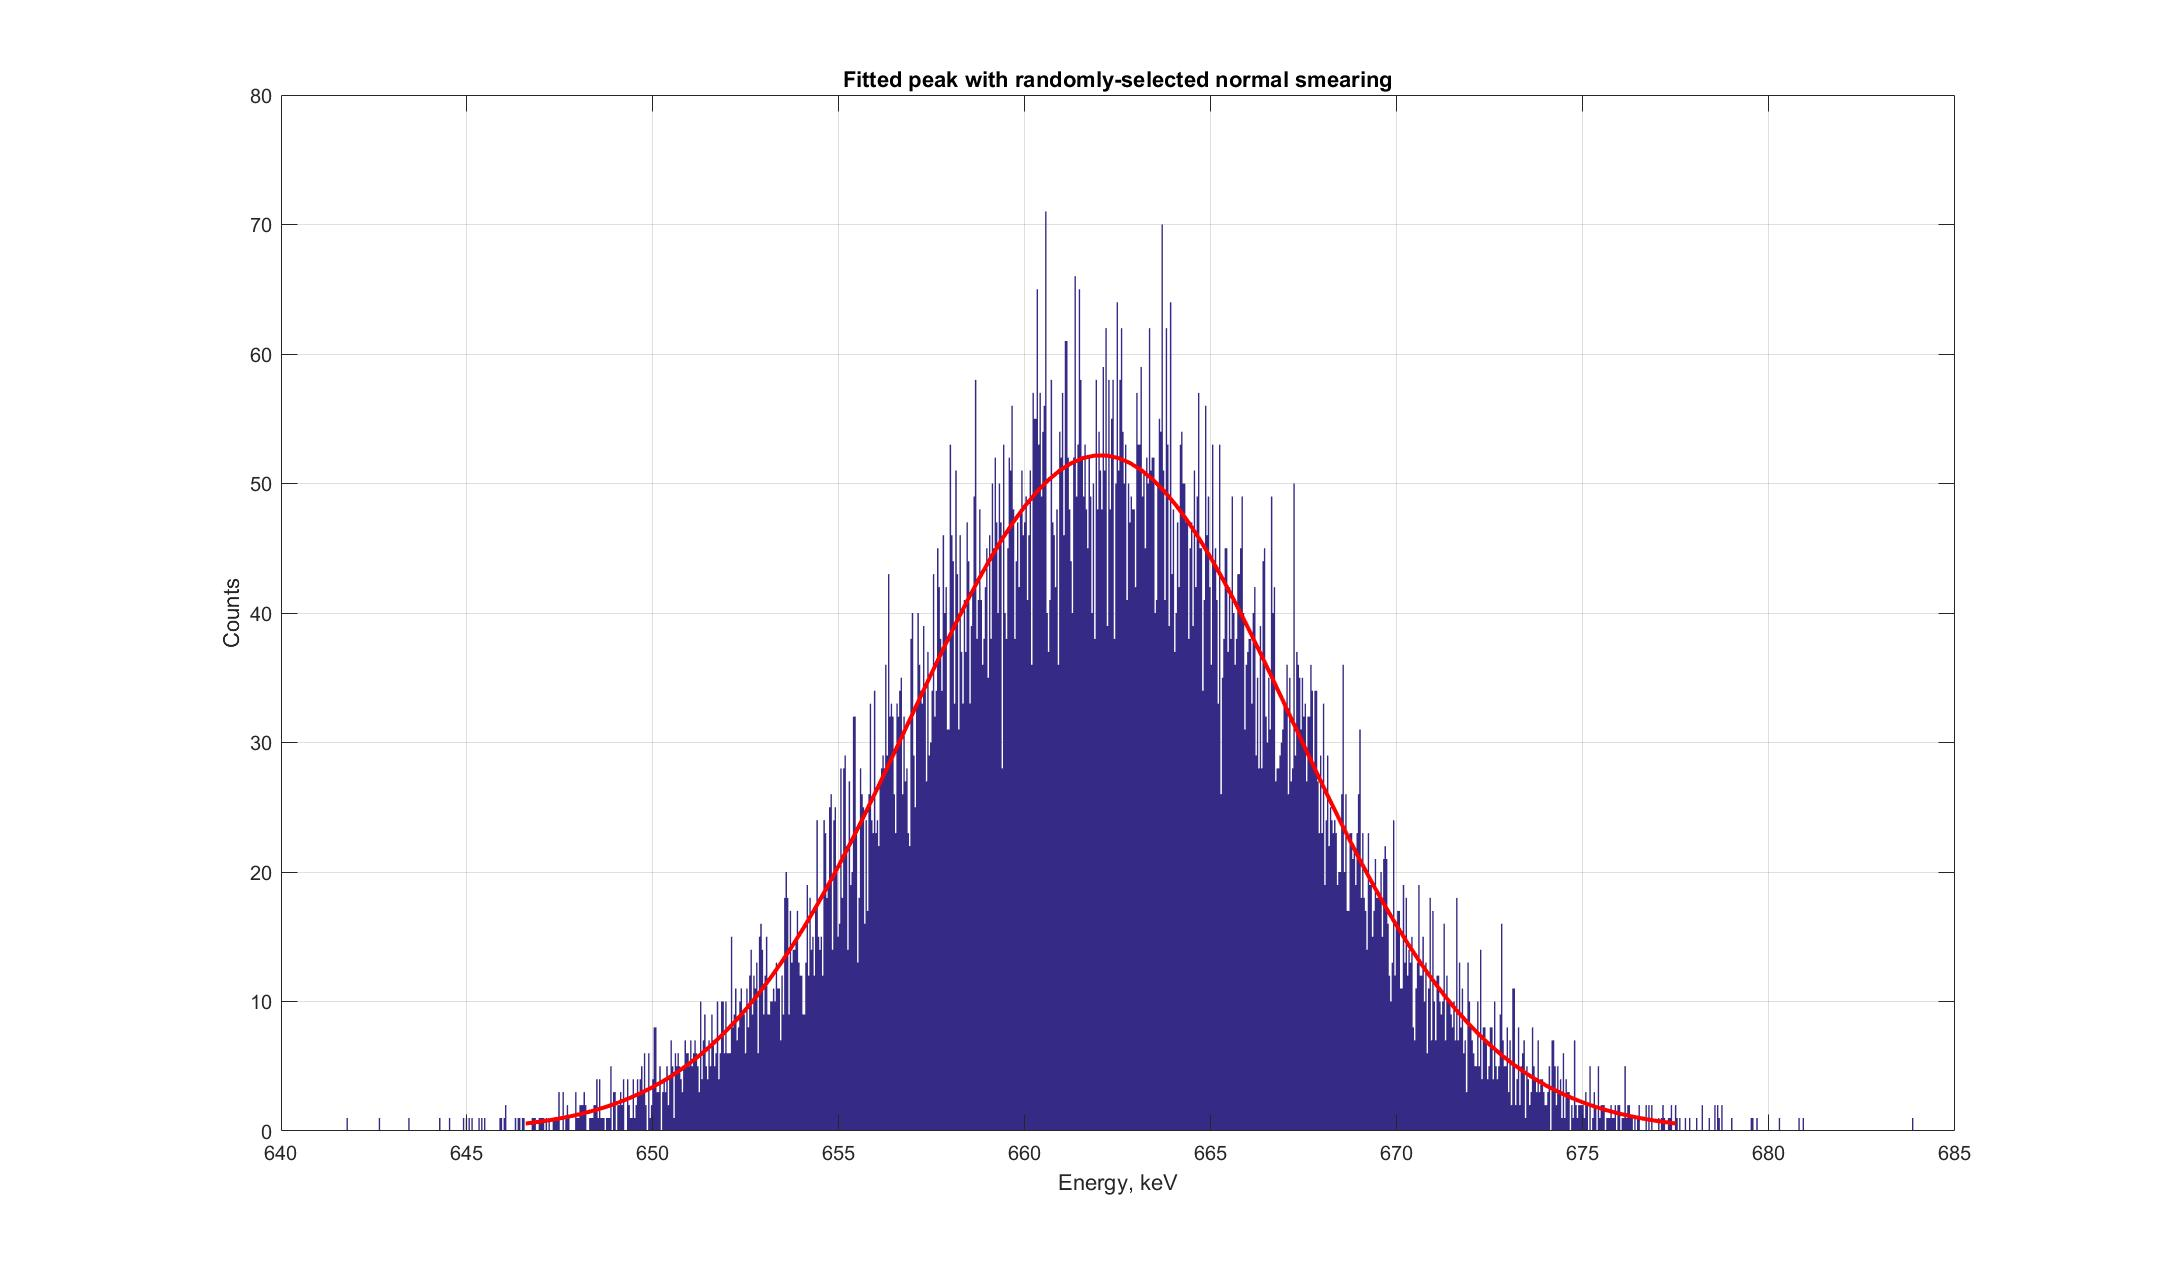
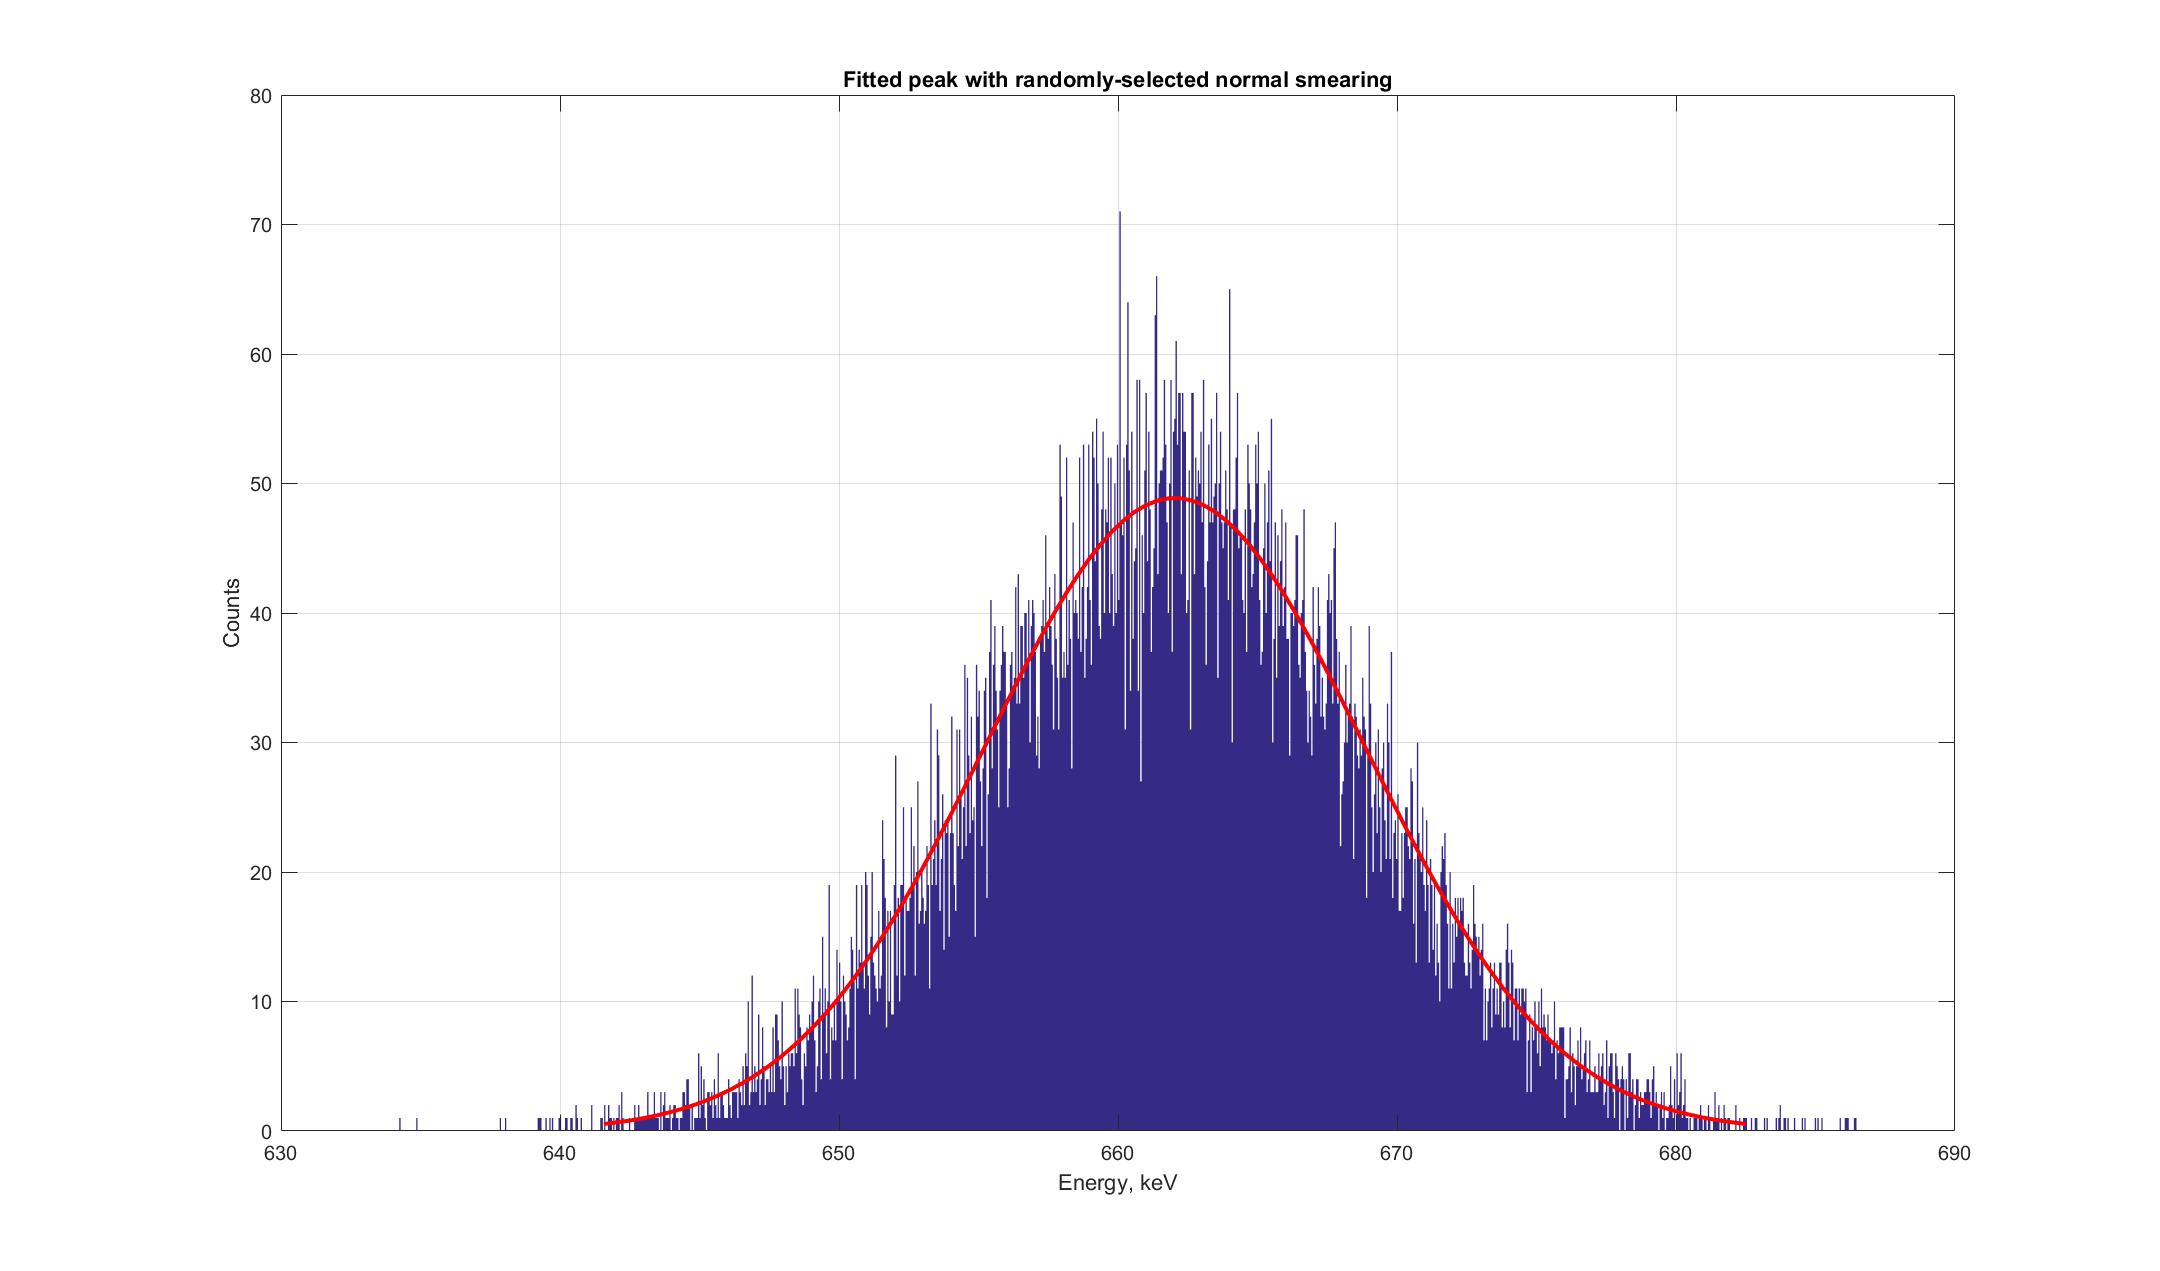
Added stuck-fix, updated image

Changed region(s): [[0.2171, 0.2148, 0.8375, 0.9205], [0.4653, 0.8899, 0.5273, 0.9205]]

diff --git a/tupleHist.m b/tupleHist.m
@@ -93,34 +93,9 @@ function [coinAll, coinAllEn, coinTr, coinEn, en, noNoiseEn, evNum, timeAdj, tim
         
         [nFilter, smVecROI] = tightener(nFilter, tightness);
         
-%         function [nFilter, smVecROI] = primeTightness(nFilter, howTight)
-%             nFilter = [];
-%             while length(nFilter) ~= length(vecROI)
-%                 
-%                 filterFiller = randn / howTight; 
-%                 % tightening spread of randn takes resolution at FWHM to  ...
-%                 % approximately 2-percent (13.24 keV is exactly 2%)
-% 
-%                 if filterFiller
-%                     nFilter = [nFilter, filterFiller + 1];
-%                 end
-%             end
-%             smVecROI = nFilter .* vecROI;
-%         end
-%         
-%         function [newFilter, smVecROI] = tightener(nFilter, howTight, tightnessP)
-% 
-%             % tightening or loosening the spread that was defined ...
-%             % previously
-%             newFilter = nFilter - 1;
-%             newFilter = newFilter * tightnessP;
-%             newFilter = newFilter / howTight;
-%             newFilter = newFilter + 1;
-% 
-%             smVecROI = newFilter .* vecROI;
-%         end
-        
-        function [nFilter, smVecROI] = tightener(nFilter, howTight, tightnessP)
+        % Adjusting the fwhm of the spectrum to match that of the ...
+        % target (the noise fwhm)
+        function [nFilter, smVecROI] = tightener(nFilter, howTight)
             nFilter = [];
             while length(nFilter) ~= length(vecROI)
                 
@@ -144,6 +119,7 @@ function [coinAll, coinAllEn, coinTr, coinEn, en, noNoiseEn, evNum, timeAdj, tim
         [rows, cols] = size(tabbedBinInds);
         fact = 1.2;
         upCount = 0;
+        tic;
         
         % Tracking down the most accurate bins for the half-max
         while round(noiseFWHM, 1) ~= round(fwCur, 1)
@@ -157,6 +133,8 @@ function [coinAll, coinAllEn, coinTr, coinEn, en, noNoiseEn, evNum, timeAdj, tim
             [rows, cols] = size(tabbedBinInds);
             hm = max(tabbedBinInds(:, 2)) / 2;
             
+            % two while loops to grab energies of the left and right ...
+            % edges of the fwhm
             while p < round(rows / 2)
                 diffr = abs(hm - tabbedBinInds(p, 2));
                 if diffr < halfDiff
@@ -181,21 +159,23 @@ function [coinAll, coinAllEn, coinTr, coinEn, en, noNoiseEn, evNum, timeAdj, tim
             fwCur = fwIndRight - fwIndLeft;
             
             if fwCur > noiseFWHM
-                tightnessPrior = tightness;
                 tightness = tightness * fact;
                 upCount = upCount + 1;
                 if rem(upCount, 5) == 0
                     fact = sqrt(fact);
                 end
             elseif fwCur < noiseFWHM
-                tightnessPrior = tightness;
                 tightness = tightness / fact;
             end
             
-            [nFilter, smVecROI] = tightener(nFilter, tightness, tightnessPrior);
+            % Ensuring the recursion doesn't get stuck
+            elT = toc;
+            if elT > 25
+                fact = 1.2;
+                tic;
+            end
+            [nFilter, smVecROI] = tightener(nFilter, tightness);
         end
-        
-        
         
         histfit(smVecROI, round(length(unique(smVecROI)) / 16))
         title('Fitted peak with randomly-selected normal smearing');
